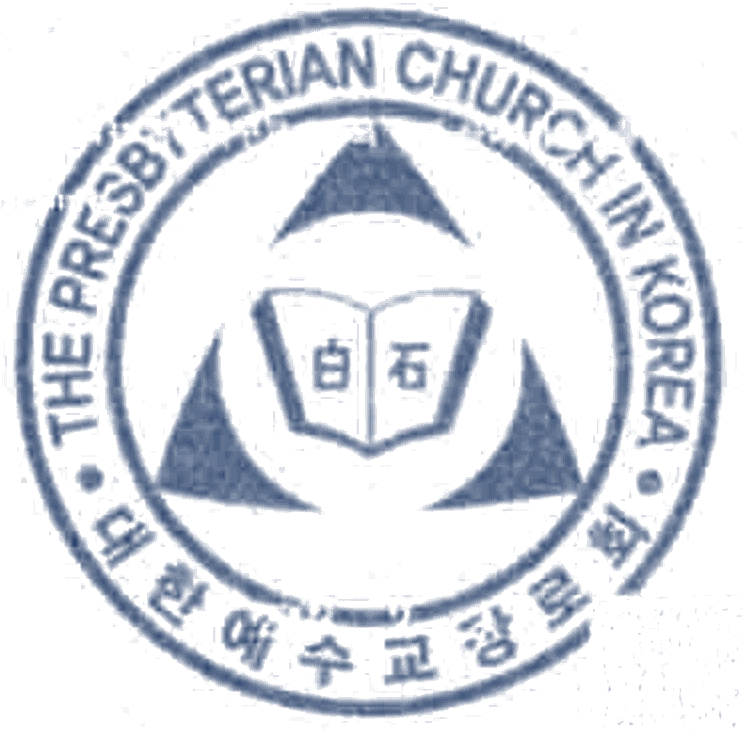
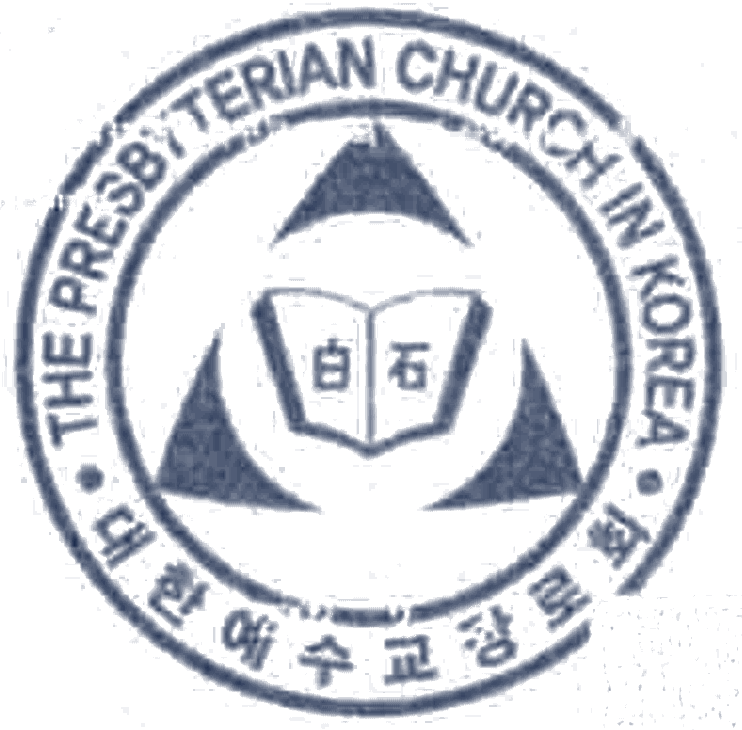
certificate: 워터마크 시안 색·진하기 조정(네이비 45%·회청 38%·먹색 32%), 캐시 v11

diff --git a/certificate/index.html b/certificate/index.html
@@ -256,9 +256,9 @@
 
           <h3 class="fmt-h">워터마크</h3>
           <div class="seg" id="wmSeg" role="radiogroup" aria-label="워터마크 진하기">
-            <label><input type="radio" name="wmChoice" value="navy" checked><span>네이비 40%</span></label>
-            <label><input type="radio" name="wmChoice" value="slate"><span>회청 35%</span></label>
-            <label><input type="radio" name="wmChoice" value="ink"><span>먹색 30%</span></label>
+            <label><input type="radio" name="wmChoice" value="navy" checked><span>네이비 45%</span></label>
+            <label><input type="radio" name="wmChoice" value="slate"><span>회청 38%</span></label>
+            <label><input type="radio" name="wmChoice" value="ink"><span>먹색 32%</span></label>
             <label><input type="radio" name="wmChoice" value="none"><span>없음</span></label>
           </div>
 

diff --git a/certificate/assets/app.css b/certificate/assets/app.css
@@ -138,10 +138,10 @@ main{padding:14px 14px 0}
 .wm{
   position:absolute;z-index:0;left:50%;top:96.5mm;width:107.5mm;
   transform:translateX(-50%);
-  opacity:.4;pointer-events:none;user-select:none;
+  opacity:.45;pointer-events:none;user-select:none;
 }
-.paper[data-wm="slate"] .wm{opacity:.35}
-.paper[data-wm="ink"] .wm{opacity:.3}
+.paper[data-wm="slate"] .wm{opacity:.38}
+.paper[data-wm="ink"] .wm{opacity:.32}
 .paper[data-wm="none"] .wm{display:none}
 .head{position:absolute;z-index:1;left:0;right:0;top:12.6mm;height:26mm;
   display:flex;flex-direction:column;align-items:center;justify-content:space-between;

diff --git a/certificate/sw.js b/certificate/sw.js
@@ -2,7 +2,7 @@
    이 폴더(certificate/) 범위만 담당한다. 같은 저장소의 다른 페이지는 건드리지 않는다.
    네트워크가 있으면 새 파일을 먼저 받아 두고, 없으면 받아 둔 사본으로 연다. */
 
-const CACHE = 'certificate-app-v10';
+const CACHE = 'certificate-app-v11';
 const SHELL = [
   './',
   './index.html',

diff --git a/certificate/README.md b/certificate/README.md
@@ -20,9 +20,9 @@ assets/app.js         동작 (정의를 읽어 폼과 지면을 그림)
 data/types.json       증명서 종류별 정의 — 제목·항목·본문·추가 입력·워터마크
 data/people.json      사람 명단 (교회명·이름·생년월일·주소·직위)
 data/config.json      직인 기본 경로(seal) — 보통은 앱에서 직접 올리는 방식을 씁니다
-assets/emblem-navy.png   총회 엠블럼 워터마크 — 네이비(기본, 40%)
-assets/emblem-slate.png  같은 워터마크 회청(35%)
-assets/emblem-ink.png    같은 워터마크 먹색(30%)
+assets/emblem-navy.png   총회 엠블럼 워터마크 — 네이비(기본, 45%)
+assets/emblem-slate.png  같은 워터마크 회청(38%)
+assets/emblem-ink.png    같은 워터마크 먹색(32%)
 assets/band.png       보안 패턴 띠(스캔에서 추출)
 vendor/html2canvas.min.js  이미지(PNG) 저장용
 sw.js, manifest.webmanifest, assets/icons/  설치·오프라인용
